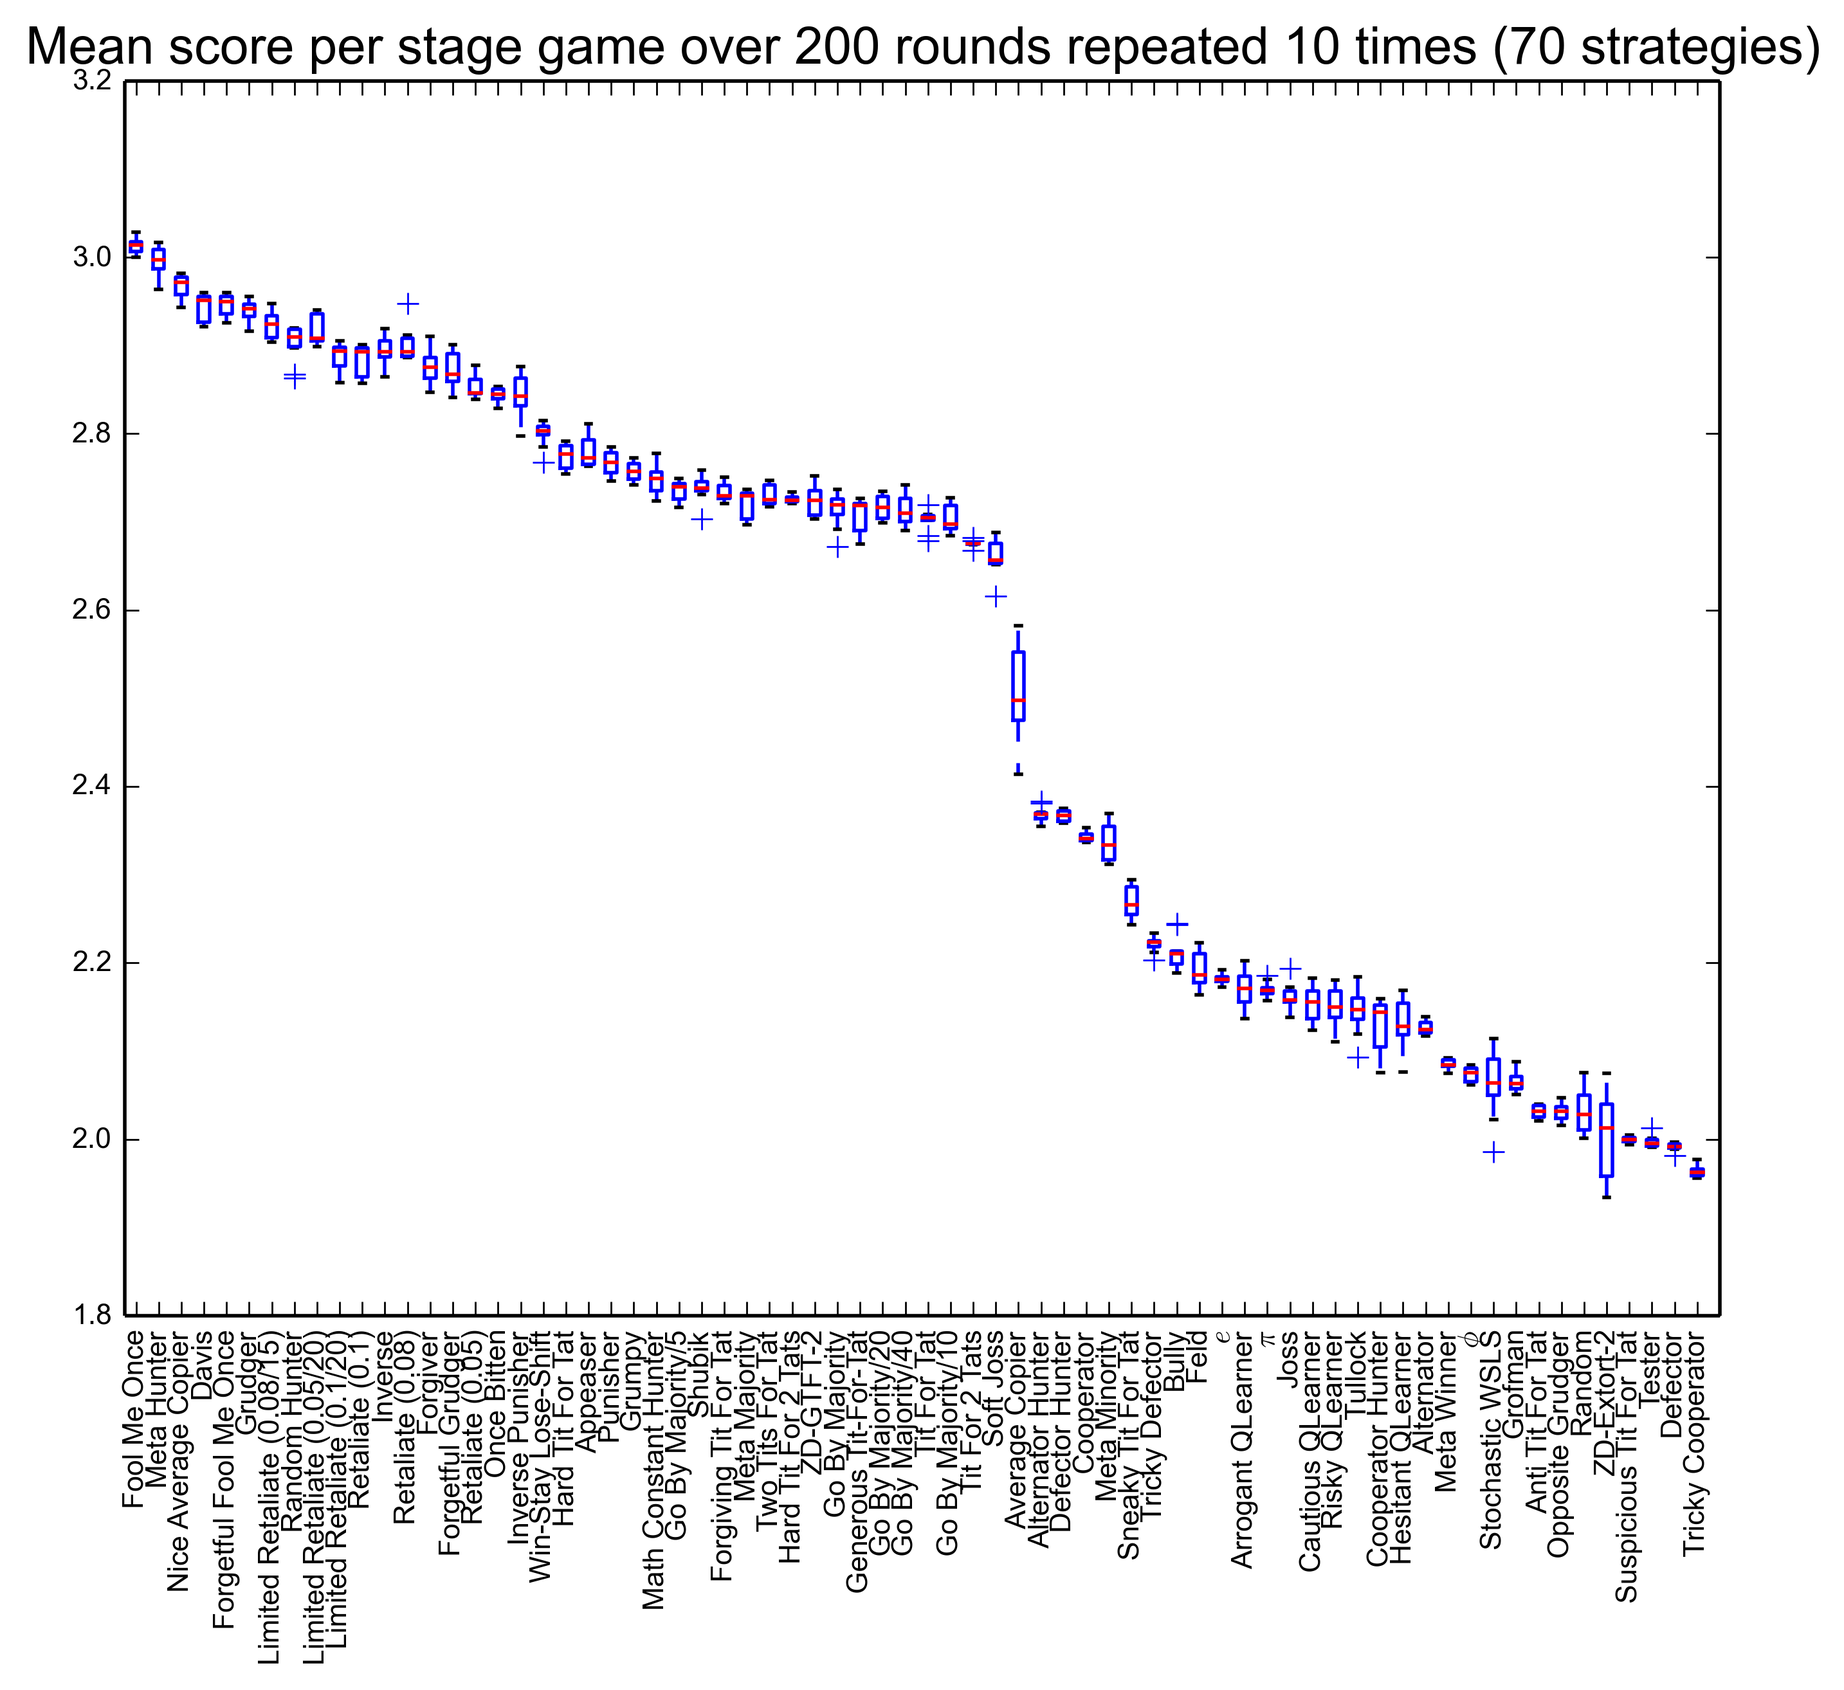
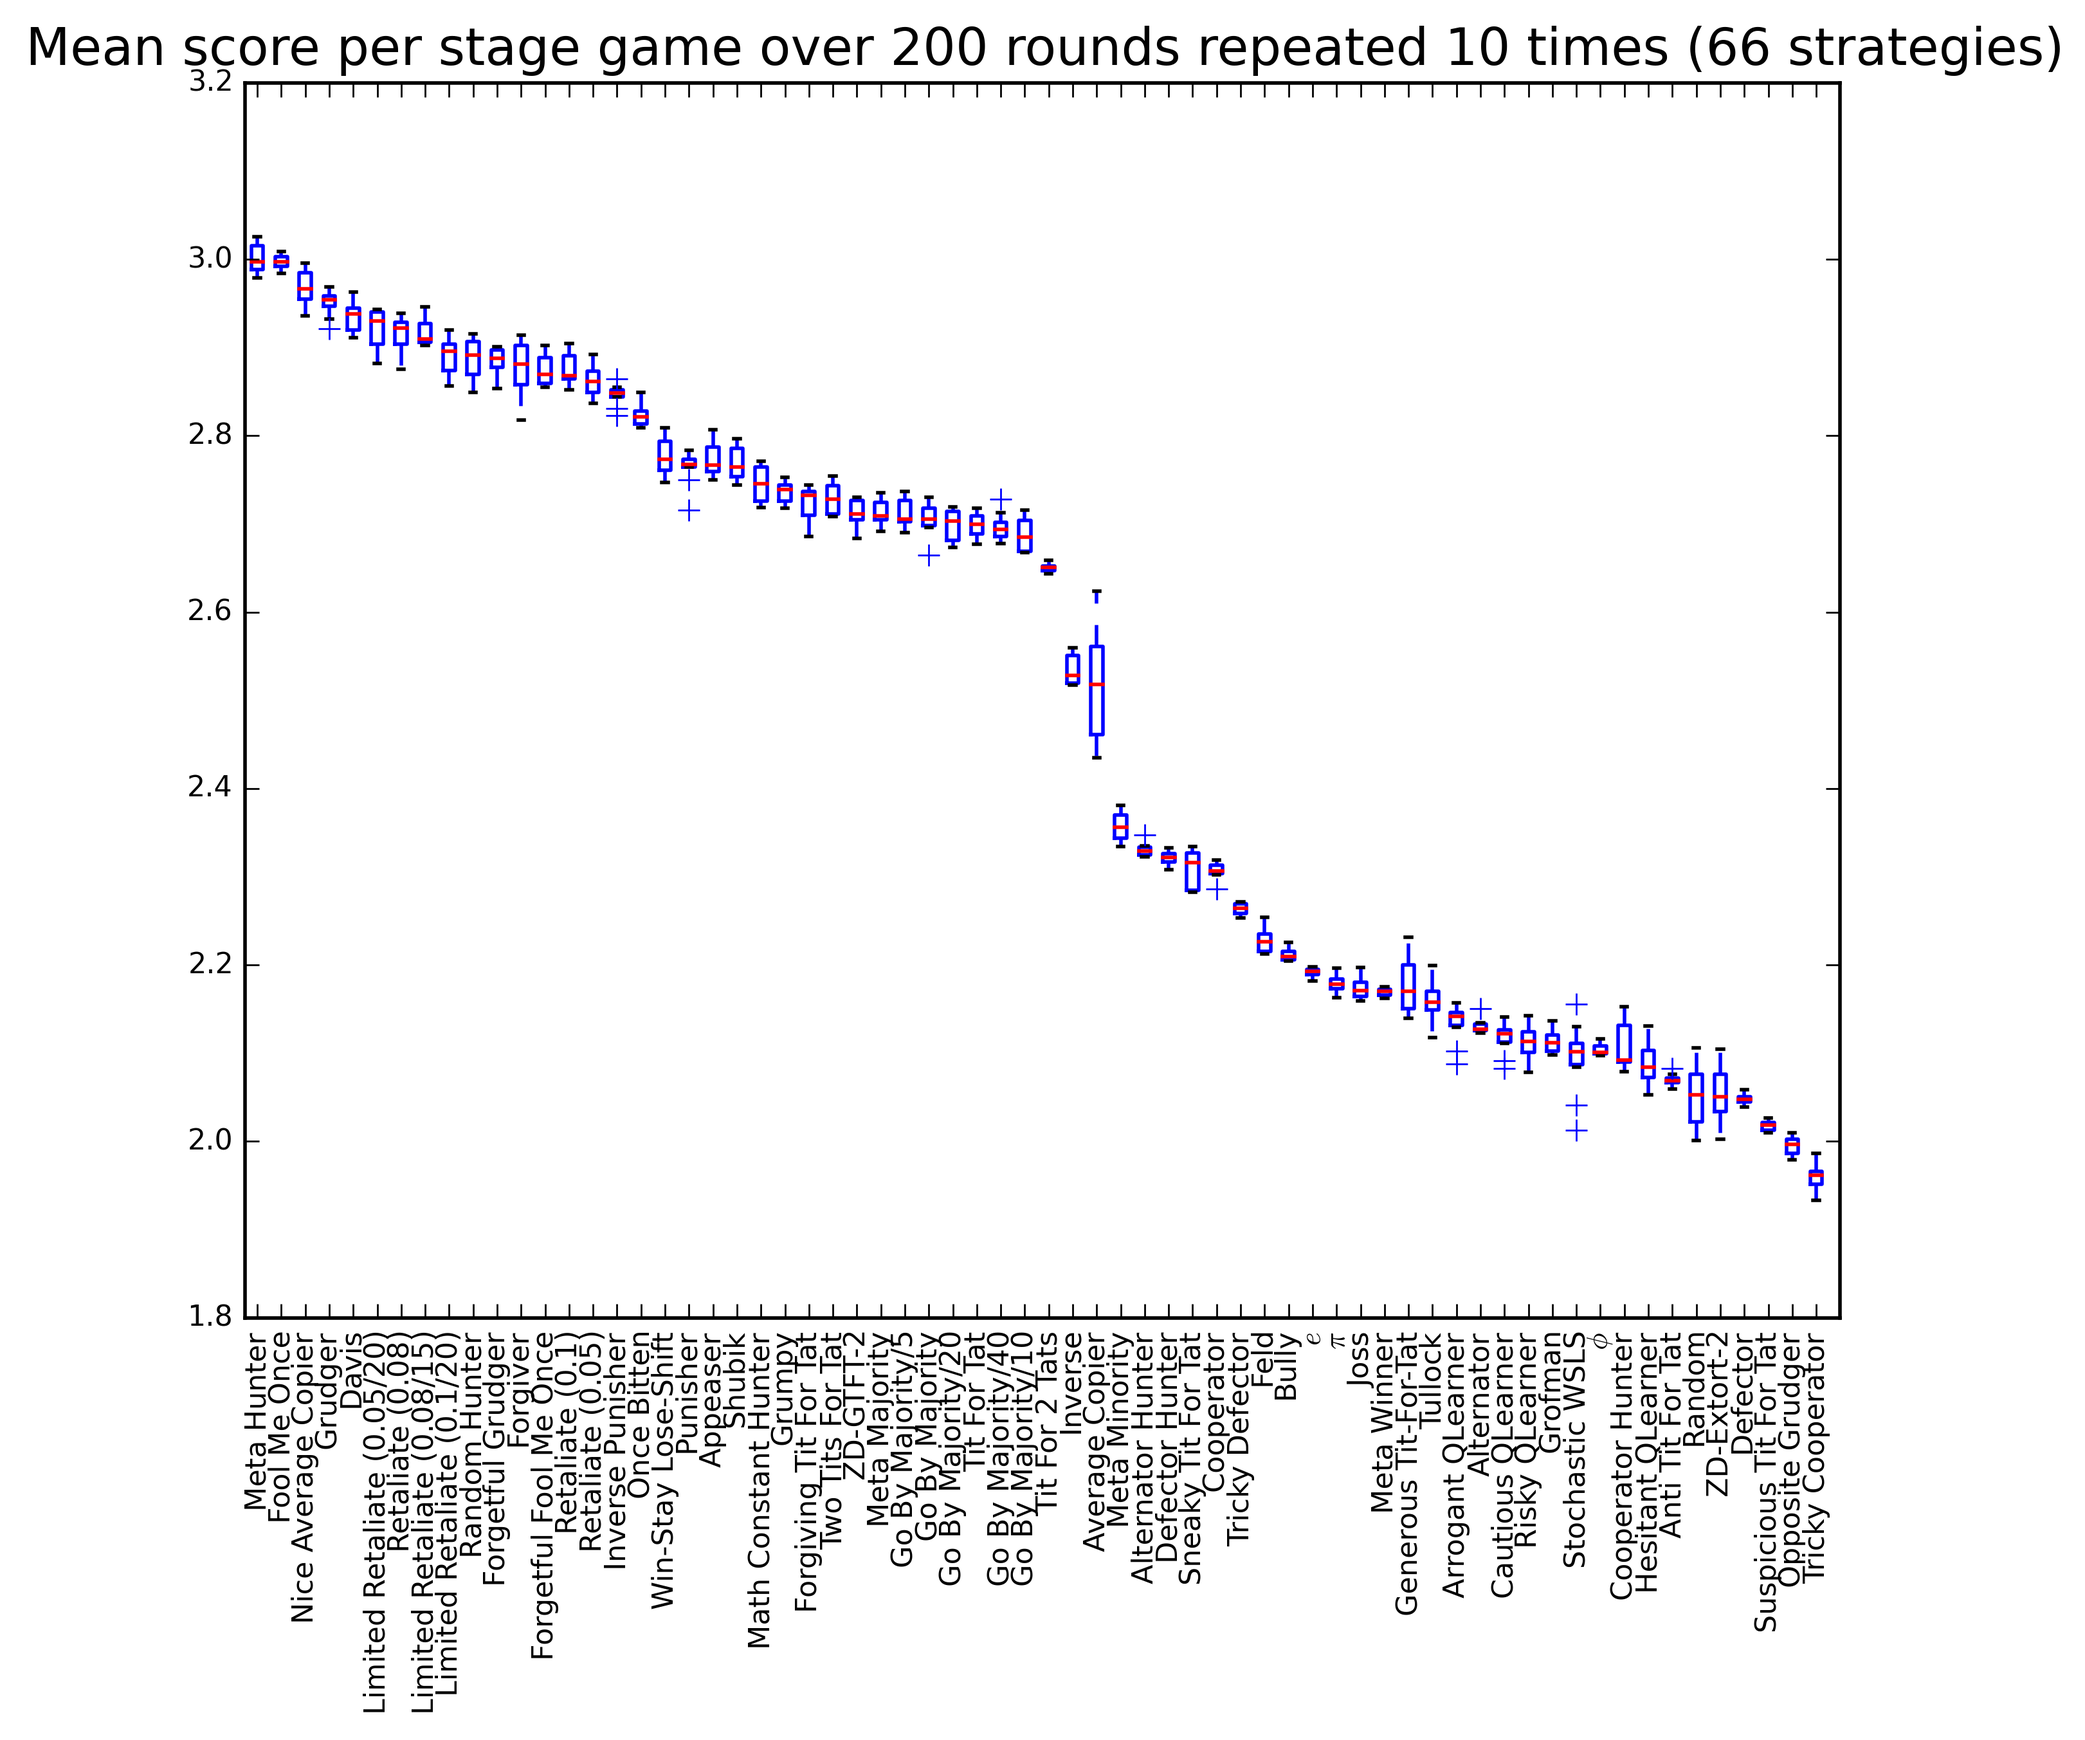
Changes image in axelrod.md

diff --git a/content/axelrod.md b/content/axelrod.md
@@ -1,45 +1,94 @@
-Title: Axelrod Python Strategies
-Date: 2015-08-05
-Tags: python, axelrod
-Slug: axelrod
-Author: Thomas Campbell
-Status: draft
+Title: Axelrod Python Strategies Date: 2015-08-05 Tags: python, axelrod Slug:
+axelrod Author: Thomas Campbell Status: draft
 
 ## Axelrod-Python
 
-Axelrod-Python is a repository on Github dedicated to recreating Axelrod’s original tournaments in python. The repository can be viewed here: [https://github.com/Axelrod-Python/Axelrod](https://github.com/Axelrod-Python/Axelrod)
+Axelrod-Python is a repository on Github dedicated to recreating Axelrod’s
+original tournaments in python. The repository can be viewed
+[here](https://github.com/Axelrod-Python/Axelrod).
 
-The project is open source and so anyone can submit a strategy. Once the tournament is run, a boxplot is generated and displayed on the Readme of the repository so that everyone can see the winning strategies. As of June 2015 there were 66 strategies submitted to Axelrod-Python. The boxplot looked like this:
+You can read more about Axelrod's original tournament
+[here](http://axelrod.readthedocs.org/en/latest/background.html).
 
-<img src="/images/strategies_boxplot_june_2015.png" alt="Strategies boxplot from June 2015" style="width: 1000px;"/>
+The project is open source and so anyone can submit a strategy. Once the
+tournament is run, a boxplot is generated and displayed on the Readme of the
+repository so that everyone can see the winning strategies. As of June 2015
+there were 66 strategies submitted to Axelrod-Python. The boxplot looked like
+this:
+
+<img src="/images/strategies_boxplot_june_2015.png" alt="Strategies boxplot from
+June 2015" style="width: 1000px;"/>
 
 ## Nice and Mean Strategies
 
-One way of grouping strategies is be splitting them into “nice” and “mean” strategies. Nice strategies will never defect before their opponent has defected and so will never defect first. Hence if two nice strategies play each other, the outcome will always be cooperation on every turn. This is called a “cooperation cycle”.
+One way of grouping strategies is be splitting them into “nice” and “mean”
+strategies. Nice strategies will never defect before their opponent has defected
+and so will never defect first. Hence if two nice strategies play each other,
+the outcome will always be cooperation on every turn. This is called a
+“cooperation cycle”.
 
-A mean strategy is a strategy that will defect before the opponent. Any randomised strategy is by definition mean.
+A mean strategy is a strategy that may defect before the opponent. Any
+randomised strategy is by definition mean.
 
-The advantage of a nice strategy is that when both players cooperate they maximise their points as a pair. They receive 6 points overall, which is more than any other situation.
+The advantage of a nice strategy is that when both players cooperate they
+maximise their points as a pair. They receive 6 points overall, which is more
+than any other situation.
 
-Mean strategies will anger other strategies by defecting. If two strategies end up defecting against each other on every turn it is called a “defection cycle”. This is the worst possible outcome as the pair only receives 2 points overall.
+Mean strategies will anger other strategies by defecting. If two strategies end
+up defecting against each other on every turn it is called a “defection cycle”.
+This is the worst possible outcome as the pair only receives 2 points overall.
 
 Therefore it is easy to see that a cooperation cycle is desirable.
 
 ## Meta Hunter and Fool me Once
 
-In June 2015 "Meta Hunter” was the current winning strategy on Axelrod-Python. This strategy was one of the more complicated strategies of the tournament. It worked by combining various “hunters” that hunted specific mean strategies and defected against them. Individually these hunters did not perform particularly well. However when combined as “Meta Hunter” it proved to be extremely effective and was the winning strategy for quite a while.
+In June 2015 "Meta Hunter” was the current winning strategy on Axelrod-Python.
+This strategy was one of the more complicated strategies of the tournament. It
+worked by combining various “hunters” that hunted specific mean strategies and
+defected against them. Individually these hunters did not perform particularly
+well. However when combined as “Meta Hunter” it proved to be extremely effective
+and was the winning strategy for quite a while.
 
-The only other strategy that even came close to “Meta Hunter” was “Fool me Once”. This strategy was one of the most simple strategies in the tournament. It cooperated unless the opponent had defected more than once. If the opponent had defected more than once then it would defect forever. It was extremely simple and yet very effective. Both of these strategies were “nice”.
+The only other strategy that even came close to “Meta Hunter” was “Fool me
+Once”. This strategy was one of the most simple strategies in the tournament. It
+cooperated unless the opponent had defected more than once. If the opponent had
+defected more than once then it would defect forever. It was extremely simple
+and yet very effective. Both of these strategies were “nice”.
 
-At first glance it may be easy to say that “Meta Hunter” and “Fool me Once”  are very different strategies. However on closer inspection they appear to be more similar than you might think. “Meta Hunter” hunts individual mean strategies and when it finds them it will defect forever. “Fool me Once” bypasses individual strategies and will just generically defect against anything that defects unprovoked. The end outcome is the same. So even though “Fool me Once” is only a few lines of code, it does exactly the same thing as “Meta Hunter”.
+At first glance it may be easy to say that “Meta Hunter” and “Fool me Once”  are
+very different strategies. However on closer inspection they appear to be more
+similar than you might think. “Meta Hunter” hunts individual mean strategies and
+when it finds them it will defect forever. “Fool me Once” bypasses individual
+strategies and will just generically defect against anything that defects
+unprovoked. The end outcome is the same. So even though “Fool me Once” is only a
+few lines of code, it does almost the same thing as “Meta Hunter”.
 
 ## BackStabber
 
-During the summer holidays I found that I had a bit of spare time. So, naturally I decided to submit some strategies to Axelrod-Python. I saw that “Fool me Once” was so simple and so effective and decided to base my new strategy on it.
-The first thing I noticed was that every strategy should defect on the last 2 turns unconditionally. This is because defecting is better than cooperating whether the opponent cooperates or defects. The reason that cooperating can be beneficial is to prevent a defection cycle. On the last 2 turns there is no danger of a defection cycle because by the time your opponent retaliates there will only be 1 turn left. Therefore defecting on the last 2 turns is better in every situation.
+During the summer holidays I found that I had a bit of spare time. So, naturally
+I decided to submit some strategies to Axelrod-Python. I saw that “Fool me Once”
+was so simple and so effective and decided to base my new strategy on it. The
+first thing I noticed was that every strategy should defect on the last 2 turns
+unconditionally. This is because defecting is better than cooperating whether
+the opponent cooperates or defects. The reason that cooperating can be
+beneficial is to prevent a defection cycle. On the last 2 turns there is no
+danger of a defection cycle because by the time your opponent retaliates there
+will only be 1 turn left. Therefore defecting on the last 2 turns is better in
+every situation.
 
-Due to my strategies nature of cruelty at the end of the round, I named it “BackStabber”. And sure enough it won the tournament by a very slim margin.
+Due to my strategies nature of cruelty at the end of the round, I named it
+“BackStabber”. And sure enough it won the tournament by a very slim margin.
 
-However I then improved the strategy even more. Instead of defecting forever after my opponent's second defection, I increased it to their fourth. At first I did not understand why this improved the strategy. Surely it made it more inefficient? It did. But it greatly improved its performance against strategies that cooperated most of the time but randomly defected every now and then. It meant that Backstabber could be in a cooperation cycle with these strategies for much longer, rather than defecting and being in a defection cycle. Its performance was improved against these strategies so much that it greatly outweighed the slight inefficiencies it caused against the other strategies. This improvement propelled Backstabber to the top of the tournament by a much bigger margin.
+However I then improved the strategy even more. Instead of defecting forever
+after my opponent's second defection, I increased it to their fourth. At first I
+did not understand why this improved the strategy. Surely it made it more
+inefficient? It did. But it greatly improved its performance against strategies
+that cooperated most of the time but randomly defected every now and then. It
+meant that Backstabber could be in a cooperation cycle with these strategies for
+much longer, rather than defecting and being in a defection cycle. Its
+performance was improved against these strategies so much that it greatly
+outweighed the slight inefficiencies it caused against the other strategies.
+This improvement propelled Backstabber to the top of the tournament by a much
+bigger margin.
 
 ## Double-Crosser
